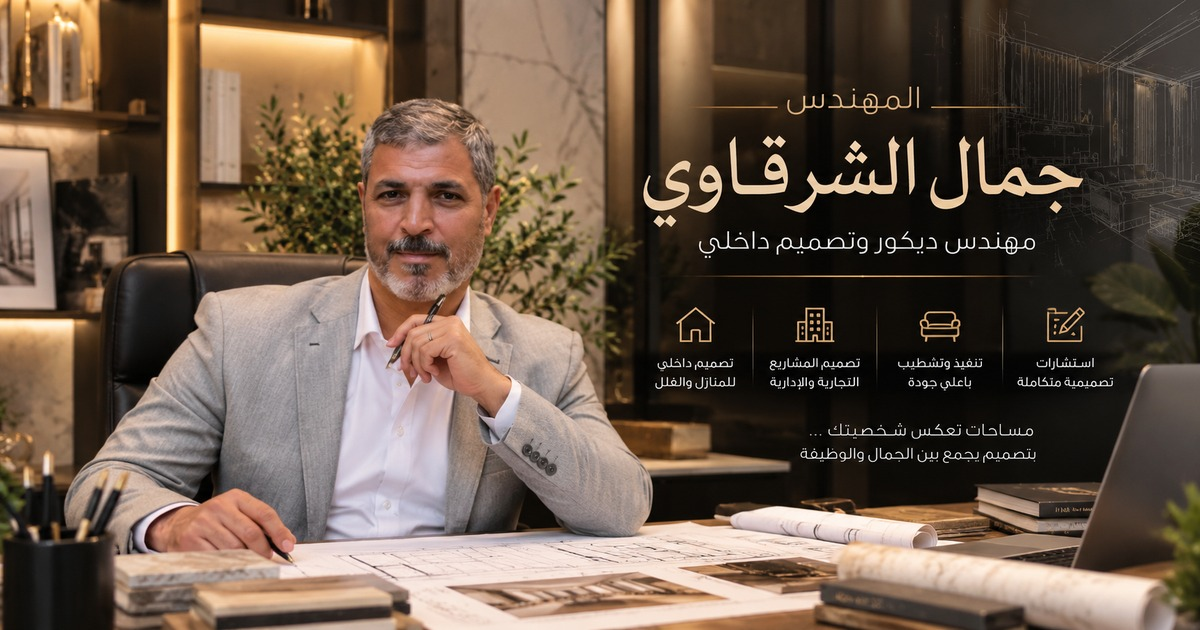
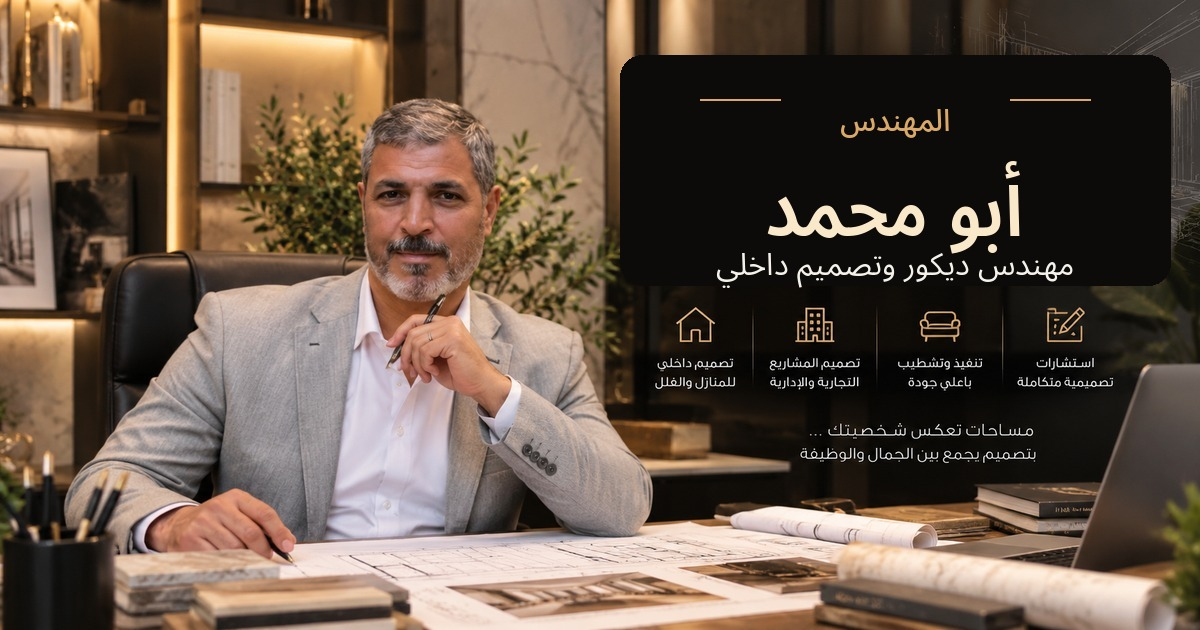
Rename website to Abu Mohamed

Changed region(s): [[0.4933, 0.0603, 0.9867, 0.4524]]

diff --git a/lib/language-context.tsx b/lib/language-context.tsx
@@ -12,8 +12,8 @@ export type Locale = 'ar' | 'en';
 type Dict = Record<string, string>;
 
 const ar: Dict = {
-  'brand.name': 'المهندس جمال الشرقاوي',
-  'brand.short': 'جمال الشرقاوي',
+  'brand.name': 'أبو محمد',
+  'brand.short': 'أبو محمد',
   'brand.trade': 'ديكور • جبس • تشطيبات',
   'brand.city': 'المدينة المنورة',
 
@@ -39,7 +39,7 @@ const ar: Dict = {
   'hero.scroll': 'مرّر لاكتشاف التفاصيل',
   'hero.englishEyebrow': 'ENGINEERED INTERIORS',
   'hero.englishLine': 'GYPSUM • DECOR • FINISHING',
-  'hero.signature': 'Eng. Gamal Elsharkawy',
+  'hero.signature': 'Abu Mohamed',
   'hero.feature': 'تفاصيل محسوبة. تنفيذ نظيف. نتيجة تليق بالمكان.',
 
   'ticker.1': 'أسقف جبسية',
@@ -58,7 +58,7 @@ const ar: Dict = {
   'services.s2.title': 'ديكورات الجدران',
   'services.s2.desc':
     'بانوهات وزخارف وتفاصيل جدارية تضبط نسب المكان وتمنحه حضورًا معماريًا واضحًا.',
-  'services.s3.title': 'جدران التلفزيون',
+  'services.s3.title': 'جدران الشاشة',
   'services.s3.desc':
     'تصميمات متكاملة تجمع بين الكسوات والجبس والإضاءة والتخزين بما يخدم الشكل والاستخدام.',
   'services.s4.title': 'التشطيبات الداخلية',
@@ -74,13 +74,13 @@ const ar: Dict = {
   'projects.eyebrow': 'مختارات من الأعمال',
   'projects.title': 'كل مشروع له إيقاعه الخاص',
   'projects.subtitle':
-    'هذه نماذج مختارة فقط من أعمال المهندس جمال الشرقاوي. أخبرنا بما تتخيله لمساحتك، وننفّذه بما يناسب المكان وذوقك.',
+    'هذه نماذج مختارة فقط من أعمال أبو محمد. أخبرنا بما تتخيله لمساحتك، وننفّذه بما يناسب المكان وذوقك.',
   'projects.view': 'عرض الصورة',
   'projects.close': 'إغلاق',
   'projects.prev': 'السابق',
   'projects.next': 'التالي',
   'projects.group1': 'مجلس عصري — أسقف وإضاءة',
-  'projects.group2': 'كسوات خشبية وجدار تلفزيون',
+  'projects.group2': 'كسوات خشبية وجدار شاشة',
   'projects.group3': 'تفاصيل جدارية وكسوات',
   'projects.group4': 'ممر تجاري بهوية لونية',
   'projects.group5': 'أسقف هندسية معاصرة',
@@ -96,7 +96,7 @@ const ar: Dict = {
   'beforeafter.caption': 'معالجة زخرفية وتشطيب نهائي للتفاصيل الجدارية',
 
   'about.eyebrow': 'عن المهندس',
-  'about.title': 'المهندس جمال الشرقاوي — جودة تُرى في التفاصيل',
+  'about.title': 'أبو محمد — جودة تُرى في التفاصيل',
   'about.p1':
     'العمل الجيد لا يعتمد على كثرة الزخارف، بل على اختيار التفصيلة المناسبة للمكان وتنفيذها بإتقان. لهذا يبدأ كل مشروع بفهم المساحة واحتياج العميل قبل التنفيذ.',
   'about.p2':
@@ -132,7 +132,7 @@ const ar: Dict = {
   'contact.eyebrow': 'لنتحدث عن مشروعك',
   'contact.title': 'عندك مساحة وتريد أن ترى أفضل ما يمكن أن تصبح عليه؟',
   'contact.subtitle':
-    'تواصل مباشرة مع المهندس جمال الشرقاوي لمناقشة الفكرة، المعاينة وخطوات التنفيذ.',
+    'تواصل مباشرة مع أبو محمد لمناقشة الفكرة، المعاينة وخطوات التنفيذ.',
   'contact.phone': '0530858304',
   'contact.call': 'اتصل الآن',
   'contact.whatsapp': 'واتساب',
@@ -144,7 +144,7 @@ const ar: Dict = {
   'floating.whatsapp': 'واتساب',
 
   'footer.about':
-    'أعمال ديكور وجبس وتشطيبات داخلية بإشراف المهندس جمال الشرقاوي، مع عناية خاصة بالتكوين والإضاءة وجودة التنفيذ.',
+    'أعمال ديكور وجبس وتشطيبات داخلية بإشراف أبو محمد، مع عناية خاصة بالتكوين والإضاءة وجودة التنفيذ.',
   'footer.nav': 'روابط سريعة',
   'footer.contact': 'تواصل',
   'footer.social': 'تابع الأعمال',
@@ -157,8 +157,8 @@ const ar: Dict = {
 };
 
 const en: Dict = {
-  'brand.name': 'Eng. Gamal Elsharkawy',
-  'brand.short': 'Gamal Elsharkawy',
+  'brand.name': 'Abu Mohamed',
+  'brand.short': 'Abu Mohamed',
   'brand.trade': 'Decor • Gypsum • Finishing',
   'brand.city': 'Madinah',
 
@@ -184,7 +184,7 @@ const en: Dict = {
   'hero.scroll': 'Scroll to discover',
   'hero.englishEyebrow': 'ENGINEERED INTERIORS',
   'hero.englishLine': 'GYPSUM • DECOR • FINISHING',
-  'hero.signature': 'Eng. Gamal Elsharkawy',
+  'hero.signature': 'Abu Mohamed',
   'hero.feature': 'Considered details. Clean execution. A finished space that feels complete.',
 
   'ticker.1': 'Gypsum Ceilings',
@@ -203,7 +203,7 @@ const en: Dict = {
   'services.s2.title': 'Wall Decoration',
   'services.s2.desc':
     'Wall panels, mouldings, and decorative details that give the room stronger architectural proportions.',
-  'services.s3.title': 'TV Feature Walls',
+  'services.s3.title': 'Screen Feature Walls',
   'services.s3.desc':
     'Integrated designs combining wall cladding, gypsum, lighting, and practical use in one composition.',
   'services.s4.title': 'Interior Finishing',
@@ -219,13 +219,13 @@ const en: Dict = {
   'projects.eyebrow': 'Selected Work',
   'projects.title': 'Every project has its own rhythm',
   'projects.subtitle':
-    'A selected glimpse of Eng. Gamal Elsharkawy’s work. Share what you imagine for your space, and we can execute it to suit the place and your taste.',
+    'A selected glimpse of Abu Mohamed’s work. Share what you imagine for your space, and we can execute it to suit the place and your taste.',
   'projects.view': 'View image',
   'projects.close': 'Close',
   'projects.prev': 'Previous',
   'projects.next': 'Next',
   'projects.group1': 'Contemporary Majlis — Ceilings & Lighting',
-  'projects.group2': 'Timber Cladding & TV Wall',
+  'projects.group2': 'Timber Cladding & Screen Wall',
   'projects.group3': 'Wall Details & Cladding',
   'projects.group4': 'Commercial Corridor Identity',
   'projects.group5': 'Contemporary Geometric Ceilings',
@@ -241,7 +241,7 @@ const en: Dict = {
   'beforeafter.caption': 'Decorative feature treatment and final wall finish',
 
   'about.eyebrow': 'About',
-  'about.title': 'Eng. Gamal Elsharkawy — quality you can see in the details',
+  'about.title': 'Abu Mohamed — quality you can see in the details',
   'about.p1':
     'Good interior work is not about adding more decoration. It starts with selecting the right detail for the room and executing it accurately after understanding the space and the client’s needs.',
   'about.p2':
@@ -277,7 +277,7 @@ const en: Dict = {
   'contact.eyebrow': 'Let’s discuss your project',
   'contact.title': 'Have a space and want to see what it could become?',
   'contact.subtitle':
-    'Contact Eng. Gamal Elsharkawy directly to discuss the idea, site visit, and execution steps.',
+    'Contact Abu Mohamed directly to discuss the idea, site visit, and execution steps.',
   'contact.phone': '0530858304',
   'contact.call': 'Call Now',
   'contact.whatsapp': 'WhatsApp',
@@ -289,7 +289,7 @@ const en: Dict = {
   'floating.whatsapp': 'WhatsApp',
 
   'footer.about':
-    'Interior decoration, gypsum, and finishing work supervised by Eng. Gamal Elsharkawy, with special focus on composition, lighting, and execution quality.',
+    'Interior decoration, gypsum, and finishing work supervised by Abu Mohamed, with special focus on composition, lighting, and execution quality.',
   'footer.nav': 'Quick Links',
   'footer.contact': 'Contact',
   'footer.social': 'Follow the Work',

diff --git a/app/layout.tsx b/app/layout.tsx
@@ -37,11 +37,11 @@ const siteUrl = deploymentUrl.startsWith('http')
 
 export const metadata: Metadata = {
   metadataBase: new URL(siteUrl),
-  title: 'المهندس جمال الشرقاوي | ديكور وجبس وتشطيبات داخلية',
+  title: 'أبو محمد | ديكور وجبس وتشطيبات داخلية',
   description:
-    'أعمال ديكور وجبس وتشطيبات داخلية بإشراف المهندس جمال الشرقاوي في المدينة المنورة، مع خدمة لمختلف مناطق المملكة العربية السعودية.',
+    'أعمال ديكور وجبس وتشطيبات داخلية بإشراف أبو محمد في المدينة المنورة، مع خدمة لمختلف مناطق المملكة العربية السعودية.',
   keywords: [
-    'جمال الشرقاوي',
+    'أبو محمد',
     'ديكور',
     'جبس',
     'تشطيبات داخلية',
@@ -50,7 +50,7 @@ export const metadata: Metadata = {
     'Interior Decoration',
   ],
   openGraph: {
-    title: 'المهندس جمال الشرقاوي | ديكور وتصميم داخلي',
+    title: 'أبو محمد | ديكور وتصميم داخلي',
     description:
       'تصميم وتنفيذ أعمال الديكور والتشطيبات الداخلية بعناية في التفاصيل وجودة التنفيذ.',
     type: 'website',
@@ -61,13 +61,13 @@ export const metadata: Metadata = {
         url: '/og-image.jpg',
         width: 1200,
         height: 630,
-        alt: 'المهندس جمال الشرقاوي - مهندس ديكور وتصميم داخلي',
+        alt: 'أبو محمد - مهندس ديكور وتصميم داخلي',
       },
     ],
   },
   twitter: {
     card: 'summary_large_image',
-    title: 'المهندس جمال الشرقاوي | ديكور وتصميم داخلي',
+    title: 'أبو محمد | ديكور وتصميم داخلي',
     description:
       'تصميم وتنفيذ أعمال الديكور والتشطيبات الداخلية بعناية في التفاصيل وجودة التنفيذ.',
     images: ['/og-image.jpg'],

diff --git a/components/sections/Hero.tsx b/components/sections/Hero.tsx
@@ -83,7 +83,7 @@ export function Hero() {
       <div data-hero-bg className="absolute -inset-[6%] will-change-transform">
         <Image
           src="/Hero-main.png"
-          alt={locale === 'ar' ? 'مشروع ديكور داخلي من أعمال المهندس جمال الشرقاوي' : 'Interior project by Eng. Gamal Elsharkawy'}
+          alt={locale === 'ar' ? 'مشروع ديكور داخلي من أعمال أبو محمد' : 'Interior project by Abu Mohamed'}
           fill
           priority
           sizes="100vw"

diff --git a/README.md b/README.md
@@ -1,4 +1,4 @@
-# موقع المهندس جمال الشرقاوي
+# موقع أبو محمد
 
 نسخة مطوّرة من الموقع بواجهة عربية أساسية ودعم كامل للإنجليزية، مع استخدام صور المشاريع الموجودة داخل `public` وحركات GSAP متجاوبة.
 
@@ -18,7 +18,7 @@ npm run dev
 - D7 وD8 موضوعتان داخل نفس مجموعة المشروع، وكذلك D12 وD13.
 - D16 وD17 مستخدمتان في مقارنة Before / After تفاعلية.
 - تم استبعاد D24 من المعرض لأنها نسخة مطابقة تقريبًا لـ D9، لتجنب التكرار البصري.
-- إضافة اسم **المهندس جمال الشرقاوي** في الهوية والمحتوى.
+- إضافة اسم **أبو محمد** في الهوية والمحتوى.
 - إضافة واتساب، الاتصال المباشر، ورابط فيسبوك في التواصل والفوتر.
 - تحسينات Responsive واحترام `prefers-reduced-motion` للحركة.
 
